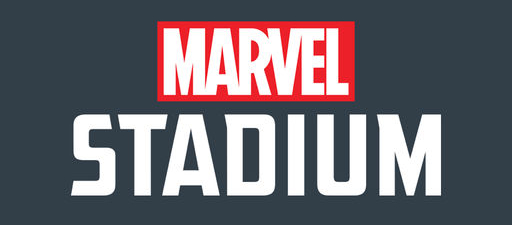
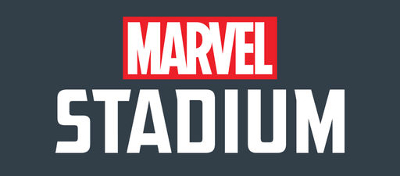
reduced the size of the top img for a better ui/ux

diff --git a/src/LandingPage.jsx b/src/LandingPage.jsx
@@ -7,9 +7,9 @@ import MarvelD from './MarvelD.jpg';
 const LandingPage = props => {
 	return (
 		<div style={{ background: 'black' }}>
-			<div style={{ display: 'flex', justifyContent: 'center', paddingTop: '5vh' }}>
-				<Col xl='5' lg='5' md='5' sm='8'>
-					<CardImg top width='100%' src={MarvelD} alt='Card image cap' />
+			<div style={{ display: 'flex', justifyContent: 'center', paddingTop: '2vh' }}>
+				<Col xl='5' lg='5' md='5' sm='8' style={{ display: 'flex', justifyContent: 'center' }}>
+					<img src={MarvelD} alt='Marvel stadium' />
 				</Col>
 			</div>
 			<CardGroup style={{ marginTop: '5vh' }}>
